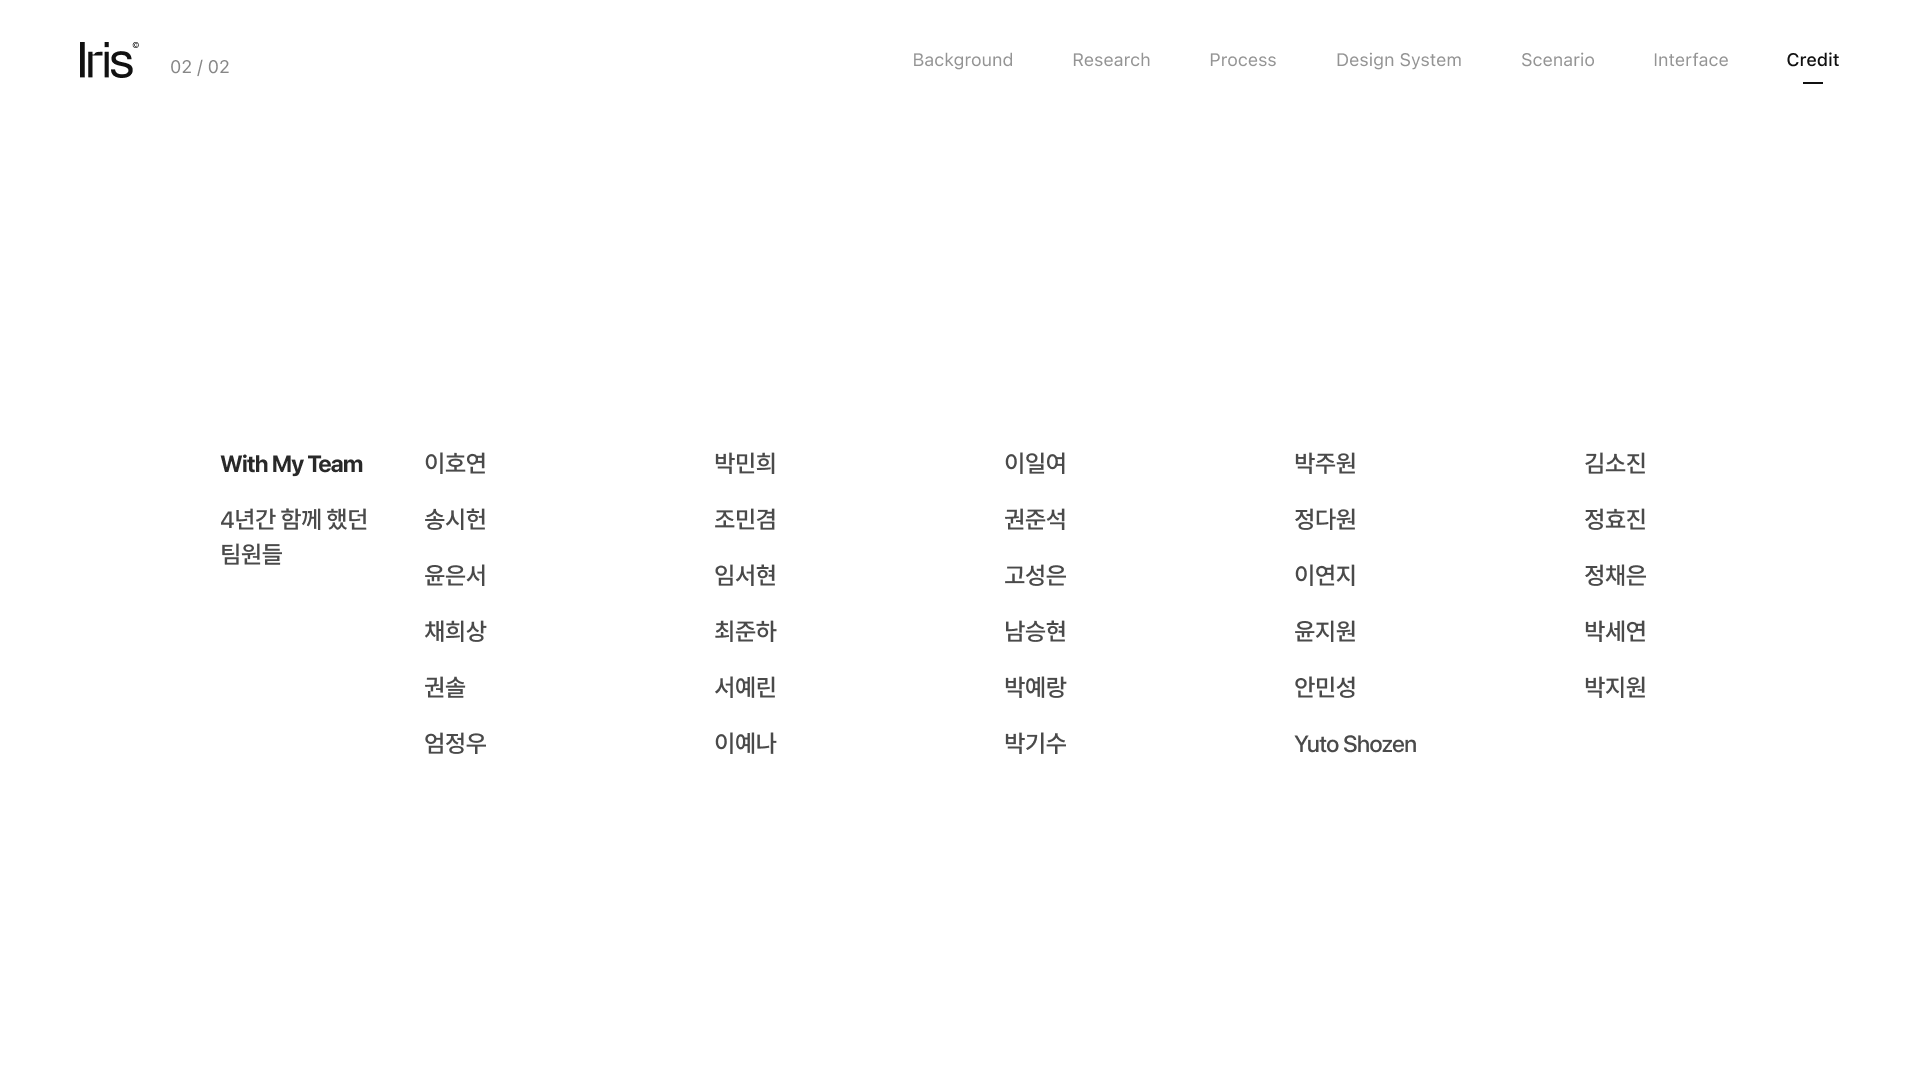
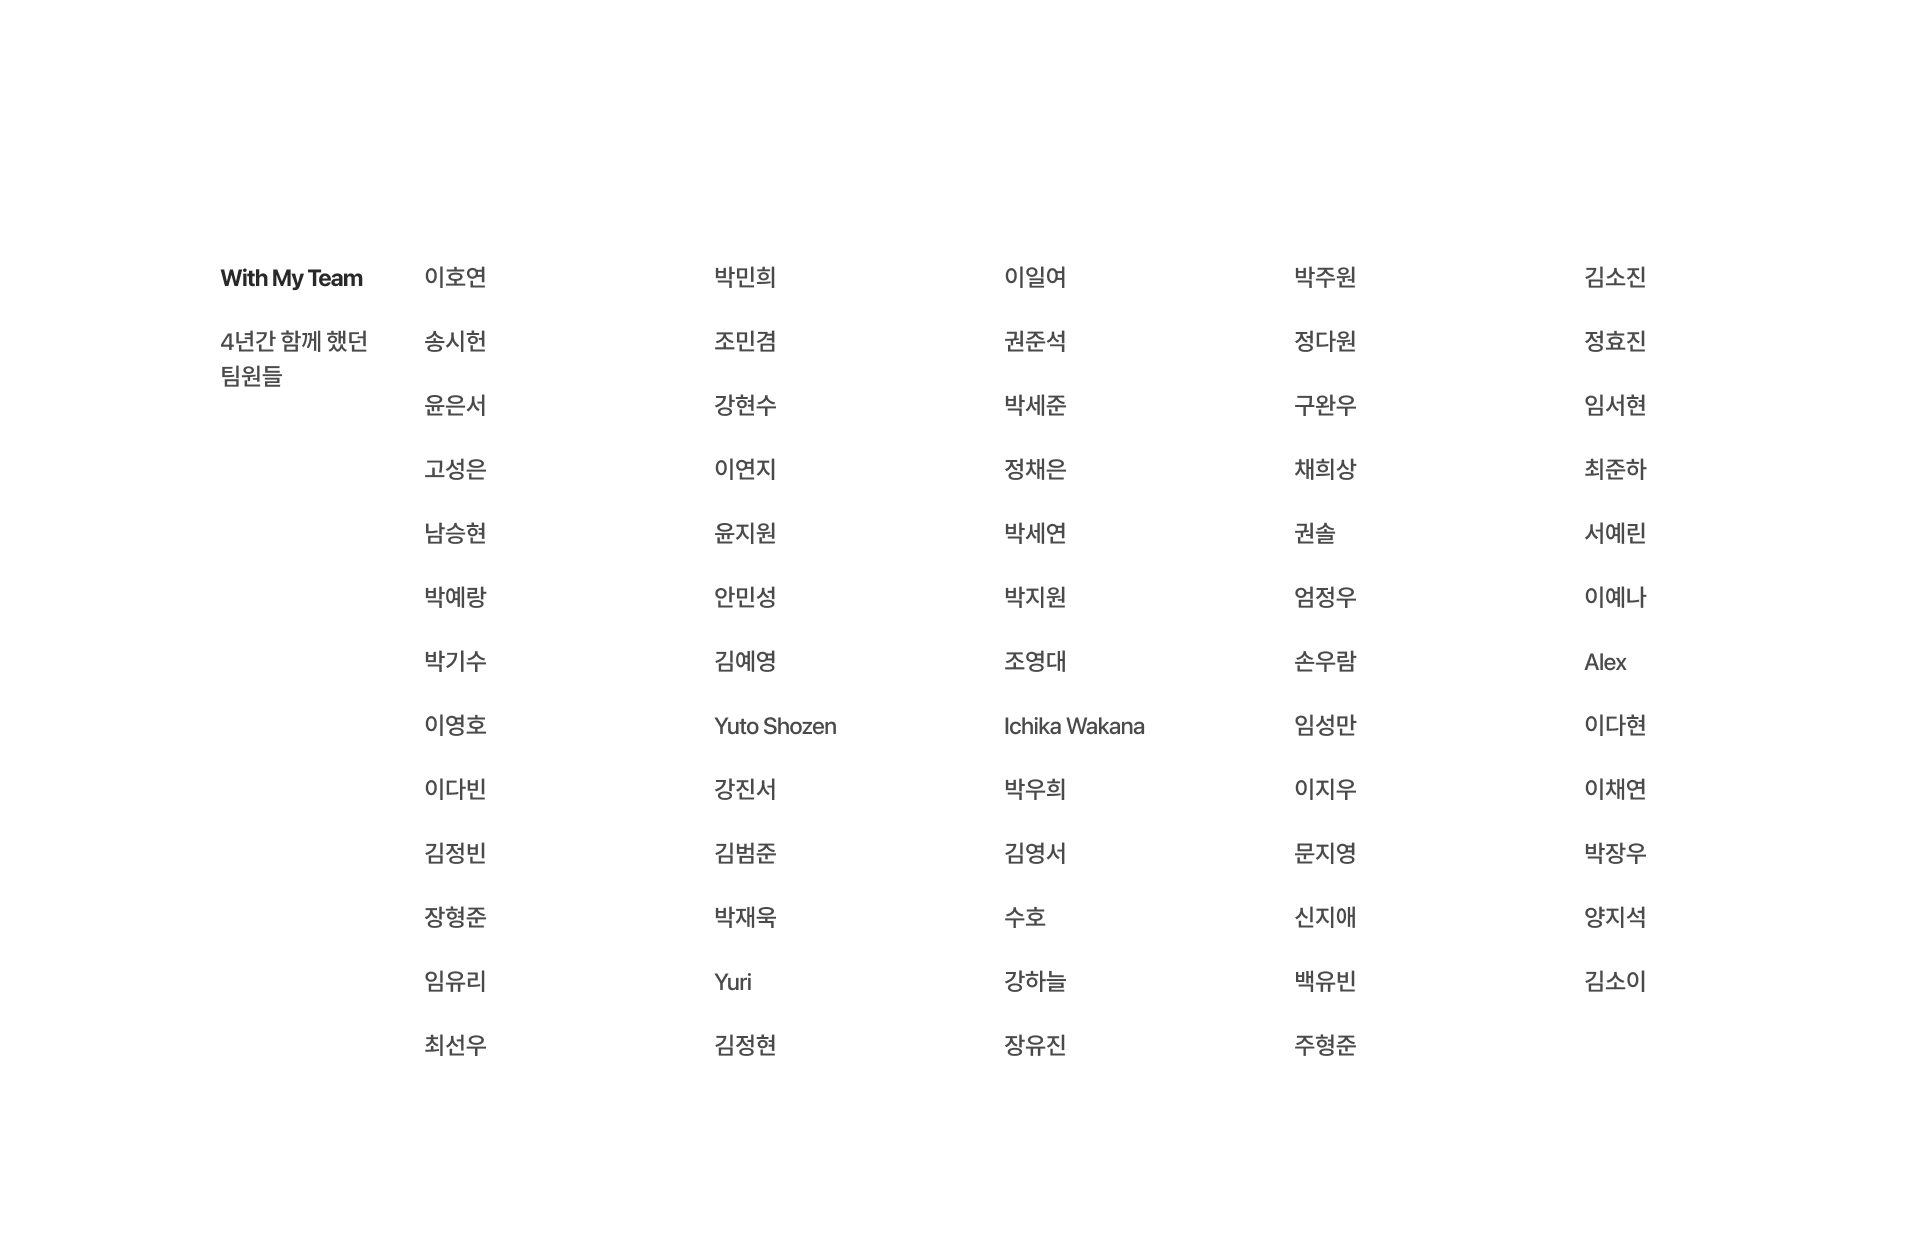
Credit 02 팀원 64명으로 갱신, 화면을 넘어가 3초 뒤 6초 동안 천천히 스크롤

diff --git a/media/portrait.js b/media/portrait.js
@@ -1,1 +1,1 @@
-var PORTRAIT = {"01-01": {"bg": ["rgb(255,255,255)", "rgb(255,255,255)"], "wins": [[96, 235, 801, 654, 224.4, 380.0, 1.2374, true, false], [1152, 125, 768, 955, 314.6, 1271.8, 1.0558, true, false]], "nav": "rgb(255,255,255)"}, "01-02": {"bg": ["rgb(247,248,248)", "rgb(247,248,248)"], "wins": [[76, 204, 496, 668, 415.9, 380.0, 1.2262, true, false], [820, 125, 943, 955, 226.7, 1280.9, 1.0462, true, false]], "nav": "rgb(247,248,248)"}, "02-01": {"bg": ["rgb(34,35,42) 0%", "rgb(34,35,42) 26.84%", "rgb(255,255,255) 77.06%", "rgb(255,255,255) 100%"], "wins": [[0, 0, 1920, 1714, 0, 687.2, 0.75, true, false]], "nav": "rgb(34,35,42)"}, "02-02": {"bg": ["rgb(255,255,255)", "rgb(255,255,255)"], "wins": [[148, 206, 454, 604, 413.5, 497.9, 1.35, true, false], [743, 350, 1028, 591, 60.0, 1403.3, 1.284, true, false]], "nav": "rgb(255,255,255)"}, "02-03": {"bg": ["rgb(244,245,245)", "rgb(244,245,245)"], "wins": [[106, 175, 752, 895, 336.6, 380.0, 1.0197, true, false], [971, 125, 949, 955, 266.5, 1367.3, 0.9557, true, false]], "nav": "rgb(244,245,245)"}, "02-04": {"bg": ["rgb(154,197,234) 0%", "rgb(154,197,234) 23.34%", "rgb(247,248,248) 80.56%", "rgb(247,248,248) 100%"], "wins": [[0, 0, 1920, 1953, 0, 597.6, 0.75, true, false]], "nav": "rgb(154,197,234)"}, "03-01": {"bg": ["rgb(247,248,248)", "rgb(247,248,248)"], "wins": [[424, 309, 1070, 639, 40.0, 923.9, 1.271, true, false]], "nav": "rgb(247,248,248)"}, "03-02": {"bg": ["rgb(8,8,8)", "rgb(8,8,8)"], "wins": [[243, 190, 421, 232, 435.8, 578.4, 1.35, true, false], [950, 125, 970, 955, 161.4, 981.6, 1.1518, true, false]], "nav": "rgb(8,8,8)"}, "03-03": {"bg": ["rgb(247,248,248) 0%", "rgb(247,248,248) 21.05%", "rgb(247,248,248) 82.86%", "rgb(247,248,248) 100%"], "wins": [[0, 0, 1920, 2110, 0, 538.8, 0.75, true, false]], "nav": "rgb(247,248,248)"}, "04-01": {"bg": ["rgb(245,247,251)", "rgb(245,247,251)"], "wins": [[180, 120, 1560, 960, 60.0, 923.8, 0.8462, true, false]], "nav": "rgb(245,247,251)"}, "04-02": {"bg": ["rgb(11,12,19)", "rgb(11,12,19)"], "wins": [[284, 125, 1340, 955, 40.0, 845.4, 1.0149, true, false]], "nav": "rgb(11,12,19)"}, "04-03": {"bg": ["rgb(13,14,21) 0%", "rgb(13,14,21) 24.57%", "rgb(13,14,21) 79.33%", "rgb(13,14,21) 100%"], "wins": [[0, 0, 1920, 1869, 0, 629.1, 0.75, true, false]], "nav": "rgb(13,14,21)"}, "04-04": {"bg": ["rgb(179,214,238)", "rgb(179,214,238)"], "wins": [[47, 133, 690, 934, 382.9, 380.0, 0.9772, true, false], [827, 125, 1093, 955, 197.7, 1367.3, 0.9557, true, false]], "nav": "rgb(179,214,238)"}, "05-01": {"bg": ["rgb(12,12,12)", "rgb(10,8,8)"], "wins": [[0, 125, 1697, 955, 40.0, 947.3, 0.8014, true, false]], "nav": "rgb(12,12,12)"}, "06-01": {"bg": ["rgb(253,255,255)", "rgb(253,255,255)"], "wins": [[172, 430, 554, 340, 346.0, 616.5, 1.35, false, false], [862, 275, 961, 649, 70.0, 1165.5, 1.3528, true, false]], "nav": "rgb(253,255,255)"}, "06-02": {"bg": ["rgb(232,238,244)", "rgb(232,238,244)"], "wins": [[782, 206, 356, 181, 488.6, 767.1, 1.3, false, false], [435, 392, 1049, 652, 60.0, 1072.4, 1.2583, true, false]], "nav": "rgb(232,238,244)"}, "06-03": {"bg": ["rgb(11,12,19)", "rgb(11,12,19)"], "wins": [[805, 170, 310, 220, 518.5, 725.0, 1.3, false, false], [436, 392, 1048, 678, 60.0, 1081.0, 1.2595, true, false]], "nav": "rgb(11,12,19)"}, "06-04": {"bg": ["rgb(11,12,19)", "rgb(11,12,19)"], "wins": [[818, 170, 285, 220, 534.8, 728.2, 1.3, false, false], [436, 392, 1048, 673, 60.0, 1084.2, 1.2595, true, false]], "nav": "rgb(11,12,19)"}, "06-05": {"bg": ["rgb(11,12,19)", "rgb(41,49,63)"], "wins": [[829, 171, 262, 214, 549.7, 729.3, 1.3, false, true], [436, 392, 1049, 678, 60.0, 1077.5, 1.2583, true, true]], "nav": "rgb(11,12,19)"}, "06-06": {"bg": ["rgb(41,43,48)", "rgb(41,43,48)"], "wins": [[221, 127, 1479, 953, 40.0, 891.8, 0.9195, true, false]], "nav": "rgb(41,43,48)"}, "06-07": {"bg": ["rgb(38,42,44)", "rgb(38,42,44)"], "wins": [[760, 125, 400, 265, 460.0, 689.5, 1.3, false, false], [436, 392, 1048, 688, 60.0, 1104.0, 1.2595, true, false]], "nav": "rgb(38,42,44)"}, "06-08": {"bg": ["rgb(38,42,44)", "rgb(38,42,44)"], "wins": [[332, 125, 1255, 730, 40.0, 934.5, 1.0837, true, false]], "nav": "rgb(38,42,44)"}, "06-09": {"bg": ["rgb(244,248,251)", "rgb(244,248,251)"], "wins": [[230, 407, 439, 387, 423.7, 463.7, 1.35, false, false], [862, 186, 961, 828, 70.0, 1076.2, 1.3528, true, false]], "nav": "rgb(244,248,251)"}, "06-10": {"bg": ["rgb(255,255,255)", "rgb(255,255,255)"], "wins": [[278, 125, 1363, 955, 40.0, 853.6, 0.9978, true, false]], "nav": "rgb(255,255,255)"}, "06-11": {"bg": ["rgb(232,238,244)", "rgb(232,238,244)"], "wins": [[77, 290, 550, 618, 379.9, 380.0, 1.2366, false, false], [872, 156, 915, 887, 176.7, 1226.6, 1.1876, true, false]], "nav": "rgb(232,238,244)"}, "06-12": {"bg": ["rgb(232,238,244)", "rgb(232,238,244)"], "wins": [[178, 156, 1565, 886, 40.0, 945.0, 0.869, true, false]], "nav": "rgb(232,238,244)"}, "06-13": {"bg": ["rgb(235,240,246)", "rgb(235,240,246)"], "wins": [[76, 440, 784, 319, 190.8, 494.7, 1.35, false, false], [921, 156, 818, 887, 189.7, 1015.3, 1.2965, true, false]], "nav": "rgb(235,240,246)"}, "06-14": {"bg": ["rgb(235,240,246)", "rgb(235,240,246)"], "wins": [[77, 448, 783, 303, 191.5, 614.5, 1.35, false, false], [862, 255, 961, 689, 70.0, 1113.5, 1.3528, true, false]], "nav": "rgb(235,240,246)"}, "06-15": {"bg": ["rgb(235,240,246)", "rgb(235,240,246)"], "wins": [[76, 473, 761, 253, 206.3, 731.4, 1.35, false, false], [995, 335, 667, 528, 236.4, 1163.0, 1.45, true, false]], "nav": "rgb(235,240,246)"}, "07-01": {"bg": ["rgb(255,255,255)", "rgb(255,255,255)"], "wins": [[176, 284, 652, 632, 308.6, 380.0, 1.2619, true, false], [1125, 198, 612, 807, 333.9, 1261.6, 1.2619, true, false]], "nav": "rgb(255,255,255)"}, "07-02": {"bg": ["rgb(255,255,255)", "rgb(255,255,255)"], "wins": [[177, 408, 310, 389, 510.8, 759.8, 1.35, true, false], [715, 408, 974, 389, 62.5, 1375.0, 1.35, true, false]], "nav": "rgb(255,255,255)"}};
+var PORTRAIT = {"01-01": {"bg": ["rgb(255,255,255)", "rgb(255,255,255)"], "wins": [[96, 235, 801, 654, 224.4, 380.0, 1.2374, true, false], [1152, 125, 768, 955, 314.6, 1271.8, 1.0558, true, false]], "nav": "rgb(255,255,255)"}, "01-02": {"bg": ["rgb(247,248,248)", "rgb(247,248,248)"], "wins": [[76, 204, 496, 668, 415.9, 380.0, 1.2262, true, false], [820, 125, 943, 955, 226.7, 1280.9, 1.0462, true, false]], "nav": "rgb(247,248,248)"}, "02-01": {"bg": ["rgb(34,35,42) 0%", "rgb(34,35,42) 26.84%", "rgb(255,255,255) 77.06%", "rgb(255,255,255) 100%"], "wins": [[0, 0, 1920, 1714, 0, 687.2, 0.75, true, false]], "nav": "rgb(34,35,42)"}, "02-02": {"bg": ["rgb(255,255,255)", "rgb(255,255,255)"], "wins": [[148, 206, 454, 604, 413.5, 497.9, 1.35, true, false], [743, 350, 1028, 591, 60.0, 1403.3, 1.284, true, false]], "nav": "rgb(255,255,255)"}, "02-03": {"bg": ["rgb(244,245,245)", "rgb(244,245,245)"], "wins": [[106, 175, 752, 895, 336.6, 380.0, 1.0197, true, false], [971, 125, 949, 955, 266.5, 1367.3, 0.9557, true, false]], "nav": "rgb(244,245,245)"}, "02-04": {"bg": ["rgb(154,197,234) 0%", "rgb(154,197,234) 23.34%", "rgb(247,248,248) 80.56%", "rgb(247,248,248) 100%"], "wins": [[0, 0, 1920, 1953, 0, 597.6, 0.75, true, false]], "nav": "rgb(154,197,234)"}, "03-01": {"bg": ["rgb(247,248,248)", "rgb(247,248,248)"], "wins": [[424, 309, 1070, 639, 40.0, 923.9, 1.271, true, false]], "nav": "rgb(247,248,248)"}, "03-02": {"bg": ["rgb(8,8,8)", "rgb(8,8,8)"], "wins": [[243, 190, 421, 232, 435.8, 578.4, 1.35, true, false], [950, 125, 970, 955, 161.4, 981.6, 1.1518, true, false]], "nav": "rgb(8,8,8)"}, "03-03": {"bg": ["rgb(247,248,248) 0%", "rgb(247,248,248) 21.05%", "rgb(247,248,248) 82.86%", "rgb(247,248,248) 100%"], "wins": [[0, 0, 1920, 2110, 0, 538.8, 0.75, true, false]], "nav": "rgb(247,248,248)"}, "04-01": {"bg": ["rgb(245,247,251)", "rgb(245,247,251)"], "wins": [[180, 120, 1560, 960, 60.0, 923.8, 0.8462, true, false]], "nav": "rgb(245,247,251)"}, "04-02": {"bg": ["rgb(11,12,19)", "rgb(11,12,19)"], "wins": [[284, 125, 1340, 955, 40.0, 845.4, 1.0149, true, false]], "nav": "rgb(11,12,19)"}, "04-03": {"bg": ["rgb(13,14,21) 0%", "rgb(13,14,21) 24.57%", "rgb(13,14,21) 79.33%", "rgb(13,14,21) 100%"], "wins": [[0, 0, 1920, 1869, 0, 629.1, 0.75, true, false]], "nav": "rgb(13,14,21)"}, "04-04": {"bg": ["rgb(179,214,238)", "rgb(179,214,238)"], "wins": [[47, 133, 690, 934, 382.9, 380.0, 0.9772, true, false], [827, 125, 1093, 955, 197.7, 1367.3, 0.9557, true, false]], "nav": "rgb(179,214,238)"}, "05-01": {"bg": ["rgb(12,12,12)", "rgb(10,8,8)"], "wins": [[0, 125, 1697, 955, 40.0, 947.3, 0.8014, true, false]], "nav": "rgb(12,12,12)"}, "06-01": {"bg": ["rgb(253,255,255)", "rgb(253,255,255)"], "wins": [[172, 430, 554, 340, 346.0, 616.5, 1.35, false, false], [862, 275, 961, 649, 70.0, 1165.5, 1.3528, true, false]], "nav": "rgb(253,255,255)"}, "06-02": {"bg": ["rgb(232,238,244)", "rgb(232,238,244)"], "wins": [[782, 206, 356, 181, 488.6, 767.1, 1.3, false, false], [435, 392, 1049, 652, 60.0, 1072.4, 1.2583, true, false]], "nav": "rgb(232,238,244)"}, "06-03": {"bg": ["rgb(11,12,19)", "rgb(11,12,19)"], "wins": [[805, 170, 310, 220, 518.5, 725.0, 1.3, false, false], [436, 392, 1048, 678, 60.0, 1081.0, 1.2595, true, false]], "nav": "rgb(11,12,19)"}, "06-04": {"bg": ["rgb(11,12,19)", "rgb(11,12,19)"], "wins": [[818, 170, 285, 220, 534.8, 728.2, 1.3, false, false], [436, 392, 1048, 673, 60.0, 1084.2, 1.2595, true, false]], "nav": "rgb(11,12,19)"}, "06-05": {"bg": ["rgb(11,12,19)", "rgb(41,49,63)"], "wins": [[829, 171, 262, 214, 549.7, 729.3, 1.3, false, true], [436, 392, 1049, 678, 60.0, 1077.5, 1.2583, true, true]], "nav": "rgb(11,12,19)"}, "06-06": {"bg": ["rgb(41,43,48)", "rgb(41,43,48)"], "wins": [[221, 127, 1479, 953, 40.0, 891.8, 0.9195, true, false]], "nav": "rgb(41,43,48)"}, "06-07": {"bg": ["rgb(38,42,44)", "rgb(38,42,44)"], "wins": [[760, 125, 400, 265, 460.0, 689.5, 1.3, false, false], [436, 392, 1048, 688, 60.0, 1104.0, 1.2595, true, false]], "nav": "rgb(38,42,44)"}, "06-08": {"bg": ["rgb(38,42,44)", "rgb(38,42,44)"], "wins": [[332, 125, 1255, 730, 40.0, 934.5, 1.0837, true, false]], "nav": "rgb(38,42,44)"}, "06-09": {"bg": ["rgb(244,248,251)", "rgb(244,248,251)"], "wins": [[230, 407, 439, 387, 423.7, 463.7, 1.35, false, false], [862, 186, 961, 828, 70.0, 1076.2, 1.3528, true, false]], "nav": "rgb(244,248,251)"}, "06-10": {"bg": ["rgb(255,255,255)", "rgb(255,255,255)"], "wins": [[278, 125, 1363, 955, 40.0, 853.6, 0.9978, true, false]], "nav": "rgb(255,255,255)"}, "06-11": {"bg": ["rgb(232,238,244)", "rgb(232,238,244)"], "wins": [[77, 290, 550, 618, 379.9, 380.0, 1.2366, false, false], [872, 156, 915, 887, 176.7, 1226.6, 1.1876, true, false]], "nav": "rgb(232,238,244)"}, "06-12": {"bg": ["rgb(232,238,244)", "rgb(232,238,244)"], "wins": [[178, 156, 1565, 886, 40.0, 945.0, 0.869, true, false]], "nav": "rgb(232,238,244)"}, "06-13": {"bg": ["rgb(235,240,246)", "rgb(235,240,246)"], "wins": [[76, 440, 784, 319, 190.8, 494.7, 1.35, false, false], [921, 156, 818, 887, 189.7, 1015.3, 1.2965, true, false]], "nav": "rgb(235,240,246)"}, "06-14": {"bg": ["rgb(235,240,246)", "rgb(235,240,246)"], "wins": [[77, 448, 783, 303, 191.5, 614.5, 1.35, false, false], [862, 255, 961, 689, 70.0, 1113.5, 1.3528, true, false]], "nav": "rgb(235,240,246)"}, "06-15": {"bg": ["rgb(235,240,246)", "rgb(235,240,246)"], "wins": [[76, 473, 761, 253, 206.3, 731.4, 1.35, false, false], [995, 335, 667, 528, 236.4, 1163.0, 1.45, true, false]], "nav": "rgb(235,240,246)"}, "07-01": {"bg": ["rgb(255,255,255)", "rgb(255,255,255)"], "wins": [[176, 284, 652, 632, 308.6, 380.0, 1.2619, true, false], [1125, 198, 612, 807, 333.9, 1261.6, 1.2619, true, false]], "nav": "rgb(255,255,255)"}, "07-02": {"bg": ["rgb(255,255,255) 0%", "rgb(255,255,255) 33.85%", "rgb(255,255,255) 70.06%", "rgb(255,255,255) 100%"], "wins": [[0, 0, 1920, 1236, 0, 866.5, 0.75, true, false]], "nav": "rgb(255,255,255)"}};

diff --git a/index.html b/index.html
@@ -48,7 +48,7 @@
 <button id="fsbtn" title="F 키로도 전체화면">전체화면</button>
 <script>
 // 배포 버전: 이미지·영상 주소 뒤에 붙여 기기 캐시에 남은 옛 파일 대신 새 파일을 받게 함(페이지 주소는 그대로). 배포할 때 tools/stamp.sh 가 바꿈
-var V = 'v261104174543';
+var V = 'v261104175036';
 document.write('<script src="media/overlays.js?' + V + '"><\/script><script src="media/portrait.js?' + V + '"><\/script>');
 </script>
 <script>
@@ -65,7 +65,8 @@ var SCROLL = {
   '02-01': { h: 1714, end: 634, delay: 4000 },
   '02-04': { h: 1953, end: 850, delay: 4000 },
   '03-03': { h: 2110, end: 1030, delay: 4000 },
-  '04-03': { h: 1869, end: 789, delay: 4000 }
+  '04-03': { h: 1869, end: 789, delay: 4000 },
+  '07-02': { h: 1236, end: 156, delay: 3000, ms: 6000 }  // 크레딧: 천천히
 };
 var SCROLL_MS = 1800, SCROLL_EASE = 'cubic-bezier(.37,0,.63,1)';  // 사인 곡선(카메라 영상과 같은 움직임)
 // 카메라 영상(가로): 스크롤 장 전체 흐름(위 정렬로 나타남 → 4초 뒤 1.8초 동안 내려감 → 아래 영상)을 미리 렌더링한 한 편(tools/camera.sh).
@@ -199,7 +200,7 @@ function go(n) {
   if (sc) {
     el.afterStarted = false;
     if (PORT) timers.push(setTimeout(function () { startAfter(el, 0); }, sc.delay));
-    else { setOff(el, 0); timers.push(setTimeout(function () { setOff(el, sc.end, SCROLL_MS); }, sc.delay)); }
+    else { setOff(el, 0); timers.push(setTimeout(function () { setOff(el, sc.end, sc.ms || SCROLL_MS); }, sc.delay)); }
   }
 }
 go(0);

diff --git a/tools/portrait.py b/tools/portrait.py
@@ -11,7 +11,7 @@ CY, MAXW, MAXH = 1330, 1320, 1900     # 묶음 중심 y, 최대 폭/높이
 PAD = 44                              # 창 가장자리 흐림(40px)보다 넉넉히
 T1 = ['06-02', '06-03', '06-04', '06-05', '06-07']           # 제목 위 + 화면
 T2 = ['06-01', '06-09', '06-11', '06-13', '06-14', '06-15']  # 글 왼쪽 + 이미지 오른쪽
-SCROLL = {'02-01': 1714, '02-04': 1953, '03-03': 2110, '04-03': 1869}
+SCROLL = {'02-01': 1714, '02-04': 1953, '03-03': 2110, '04-03': 1869, '07-02': 1236}
 NAV_ON_TOP = {'04-01': (180, 120, 1560, 960)}                # 영상이 메뉴까지 덮는 장: 메뉴 줄 빼고 영상 영역만
 
 root = os.path.dirname(os.path.dirname(os.path.abspath(__file__)))
